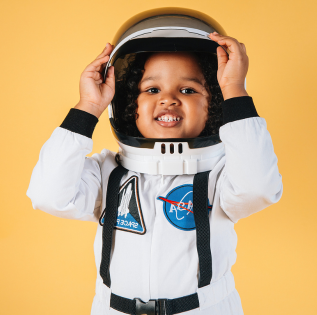
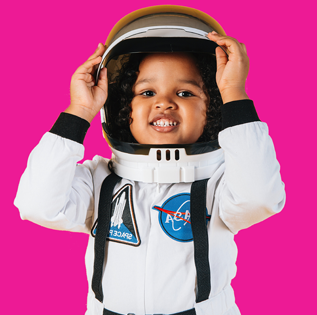
Alterações na index e novas imagens

diff --git a/index.html b/index.html
@@ -305,7 +305,7 @@
                     <!-- Slide 2 -->
                     <li data-transition="parallaxvertical" data-description="Slide Description" data-easein="default" data-easeout="default" data-fsmasterspeed="1500" data-fsslotamount="7" data-fstransition="fade" data-hideafterloop="0" data-hideslideonmobile="off" data-index="rs-1682" data-masterspeed="default" data-param1="" data-param10="" data-param2="" data-param3="" data-param4="" data-param5="" data-param6="" data-param7="" data-param8="" data-param9="" data-rotate="0" data-saveperformance="off" data-slotamount="default" data-thumb="images/main-slider/4.jpg">
 
-                        <img alt="" class="rev-slidebg" data-bgfit="cover" data-bgparallax="10" data-bgposition="center center" data-bgrepeat="no-repeat" data-no-retina="" src="images/main-slider/4.jpg">
+                        <img alt="" class="rev-slidebg" data-bgfit="cover" data-bgparallax="10" data-bgposition="center center" data-bgrepeat="no-repeat" data-no-retina="" src="images/main-slider/alunos.jpg">
                         
                         <div class="tp-caption tp-resizeme big-ipad-hidden tp-shape tp-shapewrapper rs-parallaxlevel-4" 
                         data-paddingbottom="[0,0,0,0]"
@@ -586,7 +586,7 @@
             <div class="content-box">
                 <span class="title">Venha fazer parte da nossa escola</span>    
                 <h2>Agende uma visita  <br> <span>(61) 3024-5544</span></h2>
-                <div class="btn-box"><a href="javascript:;" class="theme-btn btn-style-two">Nossos Programas</a></div>
+                <div class="btn-box"><a href="javascript:;" class="theme-btn btn-style-two">Entrar em contato</a></div>
             </div>
         </div>
     </section>
@@ -825,7 +825,7 @@
                 <div class="offer-block col-xl-2 col-lg-3 col-md-6 col-sm-12">
                     <div class="inner-box">
                         <div class="icon-box wow rollIn" data-wow-delay="600ms"><span class="icon flaticon-teddy-bear-1"></span></div>
-                        <h5><a href="javascript;:">Área de brinquedos</a></h5>
+                        <h5><a href="javascript:;">Área de brinquedos</a></h5>
                     </div>
                 </div>
 
@@ -856,7 +856,9 @@
                 <!-- Offer Block -->
                 <div class="offer-block col-xl-2 col-lg-3 col-md-6 col-sm-12">
                     <div class="inner-box">
-                        <div class="icon-box wow rollIn" data-wow-delay="600ms"><span class="icon flaticon-stopwatch"></span></div>
+                        <div class="icon-box wow rollIn" data-wow-delay="600ms">
+                            <img src="./images/icons/psico.png" class="icon" alt="">
+                        </div>
                         <h5><a href="javascript:;">Psicomotricidade</a></h5>
                     </div>
                 </div>
@@ -864,7 +866,9 @@
                 <!-- Offer Block -->
                 <div class="offer-block col-xl-2 col-lg-3 col-md-6 col-sm-12">
                     <div class="inner-box">
-                        <div class="icon-box wow rollIn" data-wow-delay="600ms"><span class="icon flaticon-stopwatch"></span></div>
+                        <div class="icon-box wow rollIn" data-wow-delay="600ms">
+                            <img src="./images/icons/danca.png" class="icon" alt="">
+                        </div>
                         <h5><a href="javascript:;">Dança</a></h5>
                     </div>
                 </div>
@@ -872,7 +876,9 @@
                 <!-- Offer Block -->
                 <div class="offer-block col-xl-2 col-lg-3 col-md-6 col-sm-12">
                     <div class="inner-box">
-                        <div class="icon-box wow rollIn" data-wow-delay="600ms"><span class="icon flaticon-stopwatch"></span></div>
+                        <div class="icon-box wow rollIn" data-wow-delay="600ms">
+                            <img src="./images/icons/origami.png" class="icon" alt="">
+                        </div>
                         <h5><a href="javascript:;">Origami</a></h5>
                     </div>
                 </div>
@@ -880,7 +886,9 @@
                 <!-- Offer Block -->
                 <div class="offer-block col-xl-2 col-lg-3 col-md-6 col-sm-12">
                     <div class="inner-box">
-                        <div class="icon-box wow rollIn" data-wow-delay="600ms"><span class="icon flaticon-stopwatch"></span></div>
+                        <div class="icon-box wow rollIn" data-wow-delay="600ms">
+                            <img src="./images/icons/cozinha.png" class="icon" alt="">
+                        </div>
                         <h5><a href="javascript:;">Cozinha experimental</a></h5>
                     </div>
                 </div>
@@ -888,7 +896,9 @@
                 <!-- Offer Block -->
                 <div class="offer-block col-xl-2 col-lg-3 col-md-6 col-sm-12">
                     <div class="inner-box">
-                        <div class="icon-box wow rollIn" data-wow-delay="600ms"><span class="icon flaticon-stopwatch"></span></div>
+                        <div class="icon-box wow rollIn" data-wow-delay="600ms">
+                            <img src="./images/icons/ballet.png" class="icon" alt="">
+                        </div>
                         <h5><a href="javascript:;">Ballet</a></h5>
                     </div>
                 </div>
@@ -896,7 +906,9 @@
                 <!-- Offer Block -->
                 <div class="offer-block col-xl-2 col-lg-3 col-md-6 col-sm-12">
                     <div class="inner-box">
-                        <div class="icon-box wow rollIn" data-wow-delay="600ms"><span class="icon flaticon-stopwatch"></span></div>
+                        <div class="icon-box wow rollIn" data-wow-delay="600ms">
+                            <img src="./images/icons/capoeira.png" class="icon" alt="">
+                        </div>
                         <h5><a href="javascript:;">Capoeira</a></h5>
                     </div>
                 </div>
